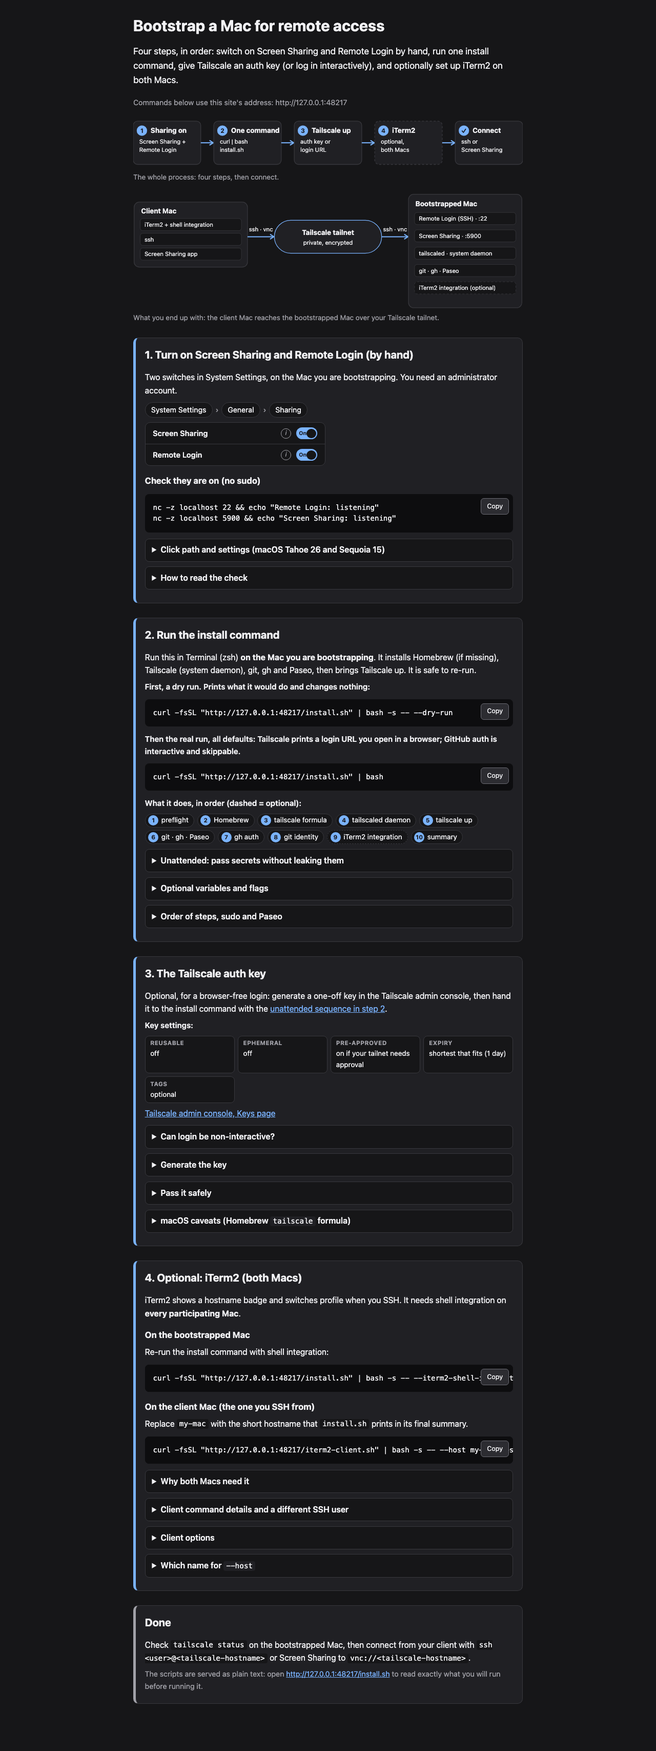
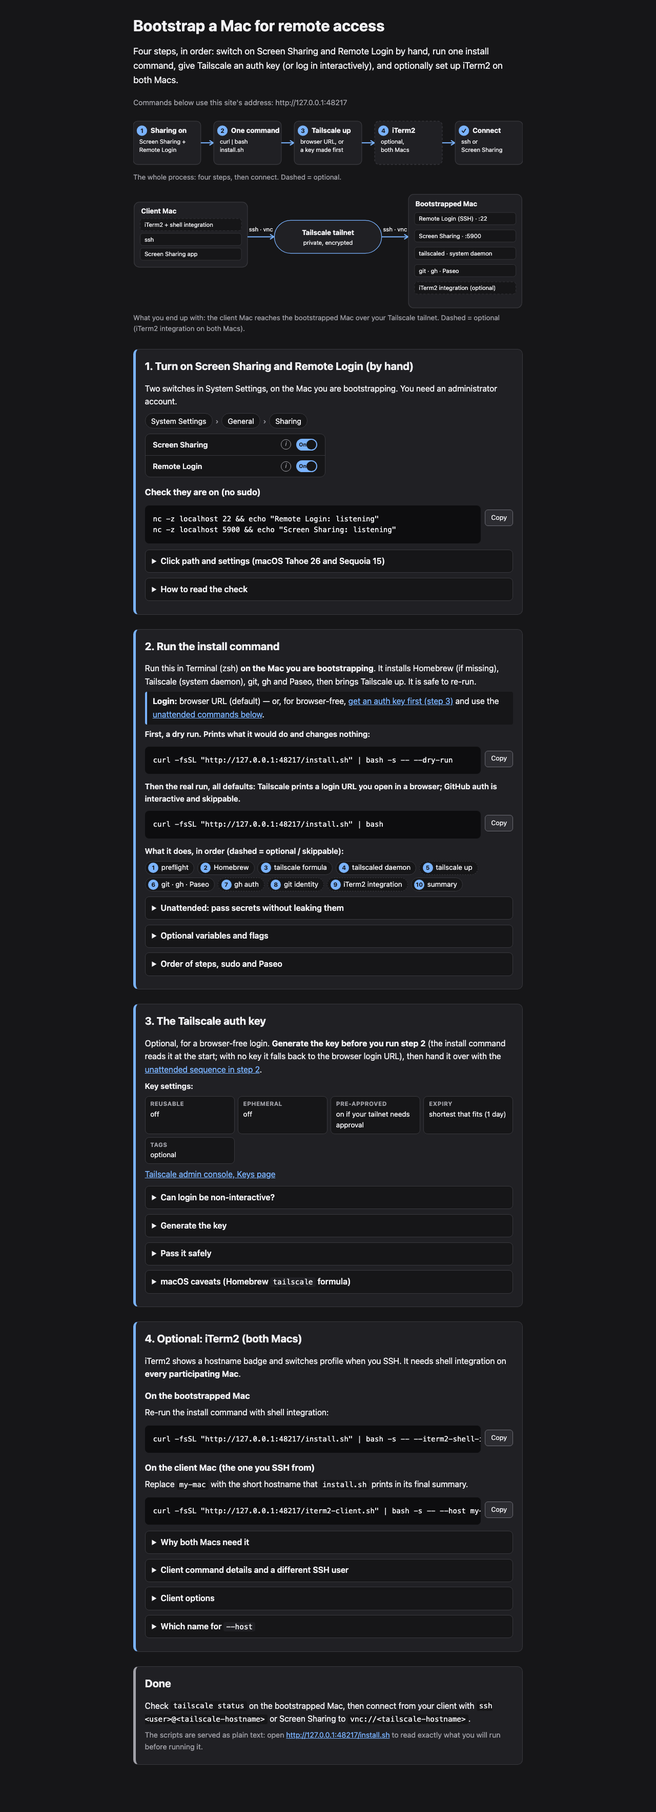
fix(site): login fork before commands, non-overlapping Copy buttons, consistent optional marking, named buttons

Changed region(s): [[0.1875, 0.0, 0.7812, 0.9628], [0.5625, 0.0621, 0.625, 0.0932], [0.75, 0.2795, 0.7812, 0.3106]]

diff --git a/public/index.html b/public/index.html
@@ -20,10 +20,10 @@ p,li{max-width:46rem}
 a{color:var(--accent)}
 a:focus-visible,button:focus-visible,summary:focus-visible{outline:3px solid var(--accent);outline-offset:2px}
 code{font:.9em ui-monospace,SFMono-Regular,Menlo,monospace;background:var(--card);padding:.1em .35em;border-radius:4px}
-.cmd{position:relative;margin:.75rem 0}
-.cmd pre{margin:0;background:var(--code-bg);color:var(--code-fg);padding:1rem 5.5rem 1rem 1rem;border-radius:8px;overflow-x:auto;font:.88rem/1.5 ui-monospace,SFMono-Regular,Menlo,monospace;white-space:pre}
+.cmd{display:flex;gap:.5rem;align-items:flex-start;margin:.75rem 0}
+.cmd pre{flex:1 1 auto;min-width:0;margin:0;background:var(--code-bg);color:var(--code-fg);padding:1rem;border-radius:8px;overflow-x:auto;font:.88rem/1.5 ui-monospace,SFMono-Regular,Menlo,monospace;white-space:pre}
 .cmd pre code{background:none;padding:0;font:inherit}
-.cmd button{position:absolute;top:.5rem;right:.5rem;font:inherit;font-size:.8rem;padding:.3rem .7rem;border-radius:6px;border:1px solid #6b6b73;background:#2c2c31;color:#f2f2f5;cursor:pointer}
+.cmd button{flex:none;margin-top:.5rem;font:inherit;font-size:.8rem;padding:.3rem .7rem;border-radius:6px;border:1px solid #6b6b73;background:#2c2c31;color:#f2f2f5;cursor:pointer}
 .cmd button:hover{background:#3a3a41}
 .note{background:var(--warn-bg);color:var(--warn);border-left:4px solid var(--warn);padding:.6rem .9rem;border-radius:4px;margin:1rem 0}
 .card{background:var(--card);border:1px solid var(--line);border-radius:8px;padding:.25rem 1rem;margin:1rem 0}
@@ -83,9 +83,10 @@ figcaption{font-size:.85rem;color:var(--muted);margin-top:.25rem}
 .keyset li{background:var(--bg);border:1px solid var(--line);border-radius:8px;padding:.3rem .6rem;font-size:.85rem;max-width:none}
 .keyset b{display:block;font-size:.72rem;text-transform:uppercase;letter-spacing:.04em;color:var(--muted)}
 td code,th code{overflow-wrap:anywhere}
+.fork{border-left:4px solid var(--accent);background:var(--bg);padding:.4rem .7rem;border-radius:4px}
 .lbl{margin:.9rem 0 0;font-weight:600;font-size:.95rem}
 .done{border-left-color:var(--muted)}
-@media (max-width:640px){.dg-wide{display:none}.dg-narrow{display:block}main{padding:1.25rem .9rem 3rem}h1{font-size:1.6rem}.step{padding:0 .8rem .8rem}.cmd pre{padding-right:4.8rem}}
+@media (max-width:640px){.dg-wide{display:none}.dg-narrow{display:block}main{padding:1.25rem .9rem 3rem}h1{font-size:1.6rem}.step{padding:0 .8rem .8rem}}
 </style>
 </head>
 <body>
@@ -96,12 +97,12 @@ td code,th code{overflow-wrap:anywhere}
 <p id="origin-note" class="origin">Commands below are built from this page's address.</p>
 <noscript><p class="note">JavaScript is off, so commands show the literal placeholder <code>&lt;your-site&gt;</code>. Replace it with the address of this page.</p></noscript>
 <figure>
-<svg class="dg dg-wide" viewBox="0 0 900 118" role="img" aria-label="Process: 1 turn on Screen Sharing and Remote Login by hand, 2 run one install command, 3 Tailscale comes up with an auth key or a login URL, 4 optionally set up iTerm2 on both Macs, then connect with ssh or Screen Sharing."><title>Process flow</title><rect x="0" y="6" width="156" height="100" rx="10" class="bx"/><circle cx="20" cy="28" r="12" class="bd"/><text x="20" y="33" class="bn" text-anchor="middle">1</text><text x="40" y="33" class="tt" text-anchor="start">Sharing on</text><text x="14" y="58" class="st" text-anchor="start">Screen Sharing +</text><text x="14" y="77" class="st" text-anchor="start">Remote Login</text><path d="M156 56H184" class="ar"/><path d="M177 51L185 56L177 61" class="ah"/><rect x="186" y="6" width="156" height="100" rx="10" class="bx"/><circle cx="206" cy="28" r="12" class="bd"/><text x="206" y="33" class="bn" text-anchor="middle">2</text><text x="226" y="33" class="tt" text-anchor="start">One command</text><text x="200" y="58" class="st" text-anchor="start">curl | bash</text><text x="200" y="77" class="st" text-anchor="start">install.sh</text><path d="M342 56H370" class="ar"/><path d="M363 51L371 56L363 61" class="ah"/><rect x="372" y="6" width="156" height="100" rx="10" class="bx"/><circle cx="392" cy="28" r="12" class="bd"/><text x="392" y="33" class="bn" text-anchor="middle">3</text><text x="412" y="33" class="tt" text-anchor="start">Tailscale up</text><text x="386" y="58" class="st" text-anchor="start">auth key or</text><text x="386" y="77" class="st" text-anchor="start">login URL</text><path d="M528 56H556" class="ar"/><path d="M549 51L557 56L549 61" class="ah"/><rect x="558" y="6" width="156" height="100" rx="10" class="bx opt"/><circle cx="578" cy="28" r="12" class="bd"/><text x="578" y="33" class="bn" text-anchor="middle">4</text><text x="598" y="33" class="tt" text-anchor="start">iTerm2</text><text x="572" y="58" class="st" text-anchor="start">optional,</text><text x="572" y="77" class="st" text-anchor="start">both Macs</text><path d="M714 56H742" class="ar"/><path d="M735 51L743 56L735 61" class="ah"/><rect x="744" y="6" width="156" height="100" rx="10" class="bx"/><circle cx="764" cy="28" r="12" class="bd"/><text x="764" y="33" class="bn" text-anchor="middle">✓</text><text x="784" y="33" class="tt" text-anchor="start">Connect</text><text x="758" y="58" class="st" text-anchor="start">ssh or</text><text x="758" y="77" class="st" text-anchor="start">Screen Sharing</text></svg><svg class="dg dg-narrow" viewBox="0 0 360 436" role="img" aria-label="Process: 1 turn on Screen Sharing and Remote Login by hand, 2 run one install command, 3 Tailscale comes up with an auth key or a login URL, 4 optionally set up iTerm2 on both Macs, then connect with ssh or Screen Sharing."><title>Process flow</title><rect x="4" y="4" width="352" height="64" rx="10" class="bx"/><circle cx="30" cy="36" r="13" class="bd"/><text x="30" y="41" class="bn" text-anchor="middle">1</text><text x="54" y="32" class="tt" text-anchor="start">Sharing on</text><text x="54" y="53" class="st" text-anchor="start">Screen Sharing + Remote Login</text><path d="M180 68V92" class="ar"/><path d="M175 85L180 93L185 85" class="ah"/><rect x="4" y="94" width="352" height="64" rx="10" class="bx"/><circle cx="30" cy="126" r="13" class="bd"/><text x="30" y="131" class="bn" text-anchor="middle">2</text><text x="54" y="122" class="tt" text-anchor="start">One command</text><text x="54" y="143" class="st" text-anchor="start">curl | bash install.sh</text><path d="M180 158V182" class="ar"/><path d="M175 175L180 183L185 175" class="ah"/><rect x="4" y="184" width="352" height="64" rx="10" class="bx"/><circle cx="30" cy="216" r="13" class="bd"/><text x="30" y="221" class="bn" text-anchor="middle">3</text><text x="54" y="212" class="tt" text-anchor="start">Tailscale up</text><text x="54" y="233" class="st" text-anchor="start">auth key or login URL</text><path d="M180 248V272" class="ar"/><path d="M175 265L180 273L185 265" class="ah"/><rect x="4" y="274" width="352" height="64" rx="10" class="bx opt"/><circle cx="30" cy="306" r="13" class="bd"/><text x="30" y="311" class="bn" text-anchor="middle">4</text><text x="54" y="302" class="tt" text-anchor="start">iTerm2</text><text x="54" y="323" class="st" text-anchor="start">optional, both Macs</text><path d="M180 338V362" class="ar"/><path d="M175 355L180 363L185 355" class="ah"/><rect x="4" y="364" width="352" height="64" rx="10" class="bx"/><circle cx="30" cy="396" r="13" class="bd"/><text x="30" y="401" class="bn" text-anchor="middle">✓</text><text x="54" y="392" class="tt" text-anchor="start">Connect</text><text x="54" y="413" class="st" text-anchor="start">ssh or Screen Sharing</text></svg>
-<figcaption>The whole process: four steps, then connect.</figcaption>
+<svg class="dg dg-wide" viewBox="0 0 900 118" role="img" aria-label="Process: 1 turn on Screen Sharing and Remote Login by hand, 2 run one install command, 3 Tailscale comes up with a browser login URL, or with an auth key generated beforehand, 4 optionally set up iTerm2 on both Macs, then connect with ssh or Screen Sharing."><title>Process flow</title><rect x="0" y="6" width="156" height="100" rx="10" class="bx"/><circle cx="20" cy="28" r="12" class="bd"/><text x="20" y="33" class="bn" text-anchor="middle">1</text><text x="40" y="33" class="tt" text-anchor="start">Sharing on</text><text x="14" y="58" class="st" text-anchor="start">Screen Sharing +</text><text x="14" y="77" class="st" text-anchor="start">Remote Login</text><path d="M156 56H184" class="ar"/><path d="M177 51L185 56L177 61" class="ah"/><rect x="186" y="6" width="156" height="100" rx="10" class="bx"/><circle cx="206" cy="28" r="12" class="bd"/><text x="206" y="33" class="bn" text-anchor="middle">2</text><text x="226" y="33" class="tt" text-anchor="start">One command</text><text x="200" y="58" class="st" text-anchor="start">curl | bash</text><text x="200" y="77" class="st" text-anchor="start">install.sh</text><path d="M342 56H370" class="ar"/><path d="M363 51L371 56L363 61" class="ah"/><rect x="372" y="6" width="156" height="100" rx="10" class="bx"/><circle cx="392" cy="28" r="12" class="bd"/><text x="392" y="33" class="bn" text-anchor="middle">3</text><text x="412" y="33" class="tt" text-anchor="start">Tailscale up</text><text x="386" y="58" class="st" text-anchor="start">browser URL, or</text><text x="386" y="77" class="st" text-anchor="start">a key made first</text><path d="M528 56H556" class="ar"/><path d="M549 51L557 56L549 61" class="ah"/><rect x="558" y="6" width="156" height="100" rx="10" class="bx opt"/><circle cx="578" cy="28" r="12" class="bd"/><text x="578" y="33" class="bn" text-anchor="middle">4</text><text x="598" y="33" class="tt" text-anchor="start">iTerm2</text><text x="572" y="58" class="st" text-anchor="start">optional,</text><text x="572" y="77" class="st" text-anchor="start">both Macs</text><path d="M714 56H742" class="ar"/><path d="M735 51L743 56L735 61" class="ah"/><rect x="744" y="6" width="156" height="100" rx="10" class="bx"/><circle cx="764" cy="28" r="12" class="bd"/><text x="764" y="33" class="bn" text-anchor="middle">✓</text><text x="784" y="33" class="tt" text-anchor="start">Connect</text><text x="758" y="58" class="st" text-anchor="start">ssh or</text><text x="758" y="77" class="st" text-anchor="start">Screen Sharing</text></svg><svg class="dg dg-narrow" viewBox="0 0 360 436" role="img" aria-label="Process: 1 turn on Screen Sharing and Remote Login by hand, 2 run one install command, 3 Tailscale comes up with a browser login URL, or with an auth key generated beforehand, 4 optionally set up iTerm2 on both Macs, then connect with ssh or Screen Sharing."><title>Process flow</title><rect x="4" y="4" width="352" height="64" rx="10" class="bx"/><circle cx="30" cy="36" r="13" class="bd"/><text x="30" y="41" class="bn" text-anchor="middle">1</text><text x="54" y="32" class="tt" text-anchor="start">Sharing on</text><text x="54" y="53" class="st" text-anchor="start">Screen Sharing + Remote Login</text><path d="M180 68V92" class="ar"/><path d="M175 85L180 93L185 85" class="ah"/><rect x="4" y="94" width="352" height="64" rx="10" class="bx"/><circle cx="30" cy="126" r="13" class="bd"/><text x="30" y="131" class="bn" text-anchor="middle">2</text><text x="54" y="122" class="tt" text-anchor="start">One command</text><text x="54" y="143" class="st" text-anchor="start">curl | bash install.sh</text><path d="M180 158V182" class="ar"/><path d="M175 175L180 183L185 175" class="ah"/><rect x="4" y="184" width="352" height="64" rx="10" class="bx"/><circle cx="30" cy="216" r="13" class="bd"/><text x="30" y="221" class="bn" text-anchor="middle">3</text><text x="54" y="212" class="tt" text-anchor="start">Tailscale up</text><text x="54" y="233" class="st" text-anchor="start">browser URL, or a key made first</text><path d="M180 248V272" class="ar"/><path d="M175 265L180 273L185 265" class="ah"/><rect x="4" y="274" width="352" height="64" rx="10" class="bx opt"/><circle cx="30" cy="306" r="13" class="bd"/><text x="30" y="311" class="bn" text-anchor="middle">4</text><text x="54" y="302" class="tt" text-anchor="start">iTerm2</text><text x="54" y="323" class="st" text-anchor="start">optional, both Macs</text><path d="M180 338V362" class="ar"/><path d="M175 355L180 363L185 355" class="ah"/><rect x="4" y="364" width="352" height="64" rx="10" class="bx"/><circle cx="30" cy="396" r="13" class="bd"/><text x="30" y="401" class="bn" text-anchor="middle">✓</text><text x="54" y="392" class="tt" text-anchor="start">Connect</text><text x="54" y="413" class="st" text-anchor="start">ssh or Screen Sharing</text></svg>
+<figcaption>The whole process: four steps, then connect. Dashed = optional.</figcaption>
 </figure>
 <figure>
-<svg class="dg dg-wide" viewBox="0 0 900 270" role="img" aria-label="Architecture: the client Mac runs iTerm2 with shell integration, ssh and the Screen Sharing app. It reaches the bootstrapped Mac over a private Tailscale tailnet. The bootstrapped Mac runs Remote Login (SSH, port 22), Screen Sharing (port 5900), the tailscaled system daemon installed with Homebrew, git, gh and Paseo, and optionally iTerm2 shell integration."><title>Architecture</title><rect x="2" y="20" width="262" height="150" rx="12" class="bx"/><text x="18" y="46" class="tt" text-anchor="start">Client Mac</text><rect x="16" y="58" width="234" height="28" rx="6" class="it"/><text x="26" y="77" class="st" text-anchor="start">iTerm2 + shell integration</text><rect x="16" y="92" width="234" height="28" rx="6" class="it"/><text x="26" y="111" class="st" text-anchor="start">ssh</text><rect x="16" y="126" width="234" height="28" rx="6" class="it"/><text x="26" y="145" class="st" text-anchor="start">Screen Sharing app</text><rect x="326" y="62" width="248" height="76" rx="38" class="bx net"/><text x="450" y="96" class="tt" text-anchor="middle">Tailscale tailnet</text><text x="450" y="118" class="st" text-anchor="middle">private, encrypted</text><path d="M264 100H324" class="ar"/><path d="M317 95L325 100L317 105" class="ah"/><path d="M574 100H634" class="ar"/><path d="M627 95L635 100L627 105" class="ah"/><rect x="636" y="2" width="262" height="262" rx="12" class="bx"/><text x="652" y="30" class="tt" text-anchor="start">Bootstrapped Mac</text><rect x="650" y="44" width="234" height="28" rx="6" class="it"/><text x="660" y="63" class="st" text-anchor="start">Remote Login (SSH) · :22</text><rect x="650" y="84" width="234" height="28" rx="6" class="it"/><text x="660" y="103" class="st" text-anchor="start">Screen Sharing · :5900</text><rect x="650" y="124" width="234" height="28" rx="6" class="it"/><text x="660" y="143" class="st" text-anchor="start">tailscaled · system daemon</text><rect x="650" y="164" width="234" height="28" rx="6" class="it"/><text x="660" y="183" class="st" text-anchor="start">git · gh · Paseo</text><rect x="650" y="204" width="234" height="28" rx="6" class="it opt"/><text x="660" y="223" class="st" text-anchor="start">iTerm2 integration (optional)</text><text x="295" y="88" class="st" text-anchor="middle">ssh · vnc</text><text x="605" y="88" class="st" text-anchor="middle">ssh · vnc</text></svg><svg class="dg dg-narrow" viewBox="0 0 360 500" role="img" aria-label="Architecture: the client Mac runs iTerm2 with shell integration, ssh and the Screen Sharing app. It reaches the bootstrapped Mac over a private Tailscale tailnet. The bootstrapped Mac runs Remote Login (SSH, port 22), Screen Sharing (port 5900), the tailscaled system daemon installed with Homebrew, git, gh and Paseo, and optionally iTerm2 shell integration."><title>Architecture</title><rect x="4" y="2" width="352" height="136" rx="12" class="bx"/><text x="18" y="28" class="tt" text-anchor="start">Client Mac</text><rect x="16" y="40" width="328" height="28" rx="6" class="it"/><text x="26" y="59" class="st" text-anchor="start">iTerm2 + shell integration</text><rect x="16" y="72" width="328" height="28" rx="6" class="it"/><text x="26" y="91" class="st" text-anchor="start">ssh</text><rect x="16" y="104" width="328" height="28" rx="6" class="it"/><text x="26" y="123" class="st" text-anchor="start">Screen Sharing app</text><path d="M180 138V174" class="ar"/><path d="M175 167L180 175L185 167" class="ah"/><text x="194" y="162" class="st" text-anchor="start">ssh · vnc</text><rect x="60" y="176" width="240" height="60" rx="30" class="bx net"/><text x="180" y="203" class="tt" text-anchor="middle">Tailscale tailnet</text><text x="180" y="223" class="st" text-anchor="middle">private, encrypted</text><path d="M180 236V272" class="ar"/><path d="M175 265L180 273L185 265" class="ah"/><rect x="4" y="274" width="352" height="224" rx="12" class="bx"/><text x="18" y="300" class="tt" text-anchor="start">Bootstrapped Mac</text><rect x="16" y="312" width="328" height="28" rx="6" class="it"/><text x="26" y="331" class="st" text-anchor="start">Remote Login (SSH) · :22</text><rect x="16" y="348" width="328" height="28" rx="6" class="it"/><text x="26" y="367" class="st" text-anchor="start">Screen Sharing · :5900</text><rect x="16" y="384" width="328" height="28" rx="6" class="it"/><text x="26" y="403" class="st" text-anchor="start">tailscaled · system daemon</text><rect x="16" y="420" width="328" height="28" rx="6" class="it"/><text x="26" y="439" class="st" text-anchor="start">git · gh · Paseo</text><rect x="16" y="456" width="328" height="28" rx="6" class="it opt"/><text x="26" y="475" class="st" text-anchor="start">iTerm2 integration (optional)</text></svg>
-<figcaption>What you end up with: the client Mac reaches the bootstrapped Mac over your Tailscale tailnet.</figcaption>
+<svg class="dg dg-wide" viewBox="0 0 900 270" role="img" aria-label="Architecture: the client Mac runs iTerm2 with shell integration, ssh and the Screen Sharing app. It reaches the bootstrapped Mac over a private Tailscale tailnet. The bootstrapped Mac runs Remote Login (SSH, port 22), Screen Sharing (port 5900), the tailscaled system daemon installed with Homebrew, git, gh and Paseo, and optionally iTerm2 shell integration; the iTerm2 integration on both Macs is optional."><title>Architecture</title><rect x="2" y="20" width="262" height="150" rx="12" class="bx"/><text x="18" y="46" class="tt" text-anchor="start">Client Mac</text><rect x="16" y="58" width="234" height="28" rx="6" class="it opt"/><text x="26" y="77" class="st" text-anchor="start">iTerm2 + shell integration</text><rect x="16" y="92" width="234" height="28" rx="6" class="it"/><text x="26" y="111" class="st" text-anchor="start">ssh</text><rect x="16" y="126" width="234" height="28" rx="6" class="it"/><text x="26" y="145" class="st" text-anchor="start">Screen Sharing app</text><rect x="326" y="62" width="248" height="76" rx="38" class="bx net"/><text x="450" y="96" class="tt" text-anchor="middle">Tailscale tailnet</text><text x="450" y="118" class="st" text-anchor="middle">private, encrypted</text><path d="M264 100H324" class="ar"/><path d="M317 95L325 100L317 105" class="ah"/><path d="M574 100H634" class="ar"/><path d="M627 95L635 100L627 105" class="ah"/><rect x="636" y="2" width="262" height="262" rx="12" class="bx"/><text x="652" y="30" class="tt" text-anchor="start">Bootstrapped Mac</text><rect x="650" y="44" width="234" height="28" rx="6" class="it"/><text x="660" y="63" class="st" text-anchor="start">Remote Login (SSH) · :22</text><rect x="650" y="84" width="234" height="28" rx="6" class="it"/><text x="660" y="103" class="st" text-anchor="start">Screen Sharing · :5900</text><rect x="650" y="124" width="234" height="28" rx="6" class="it"/><text x="660" y="143" class="st" text-anchor="start">tailscaled · system daemon</text><rect x="650" y="164" width="234" height="28" rx="6" class="it"/><text x="660" y="183" class="st" text-anchor="start">git · gh · Paseo</text><rect x="650" y="204" width="234" height="28" rx="6" class="it opt"/><text x="660" y="223" class="st" text-anchor="start">iTerm2 integration (optional)</text><text x="295" y="88" class="st" text-anchor="middle">ssh · vnc</text><text x="605" y="88" class="st" text-anchor="middle">ssh · vnc</text></svg><svg class="dg dg-narrow" viewBox="0 0 360 500" role="img" aria-label="Architecture: the client Mac runs iTerm2 with shell integration, ssh and the Screen Sharing app. It reaches the bootstrapped Mac over a private Tailscale tailnet. The bootstrapped Mac runs Remote Login (SSH, port 22), Screen Sharing (port 5900), the tailscaled system daemon installed with Homebrew, git, gh and Paseo, and optionally iTerm2 shell integration; the iTerm2 integration on both Macs is optional."><title>Architecture</title><rect x="4" y="2" width="352" height="136" rx="12" class="bx"/><text x="18" y="28" class="tt" text-anchor="start">Client Mac</text><rect x="16" y="40" width="328" height="28" rx="6" class="it opt"/><text x="26" y="59" class="st" text-anchor="start">iTerm2 + shell integration</text><rect x="16" y="72" width="328" height="28" rx="6" class="it"/><text x="26" y="91" class="st" text-anchor="start">ssh</text><rect x="16" y="104" width="328" height="28" rx="6" class="it"/><text x="26" y="123" class="st" text-anchor="start">Screen Sharing app</text><path d="M180 138V174" class="ar"/><path d="M175 167L180 175L185 167" class="ah"/><text x="194" y="162" class="st" text-anchor="start">ssh · vnc</text><rect x="60" y="176" width="240" height="60" rx="30" class="bx net"/><text x="180" y="203" class="tt" text-anchor="middle">Tailscale tailnet</text><text x="180" y="223" class="st" text-anchor="middle">private, encrypted</text><path d="M180 236V272" class="ar"/><path d="M175 265L180 273L185 265" class="ah"/><rect x="4" y="274" width="352" height="224" rx="12" class="bx"/><text x="18" y="300" class="tt" text-anchor="start">Bootstrapped Mac</text><rect x="16" y="312" width="328" height="28" rx="6" class="it"/><text x="26" y="331" class="st" text-anchor="start">Remote Login (SSH) · :22</text><rect x="16" y="348" width="328" height="28" rx="6" class="it"/><text x="26" y="367" class="st" text-anchor="start">Screen Sharing · :5900</text><rect x="16" y="384" width="328" height="28" rx="6" class="it"/><text x="26" y="403" class="st" text-anchor="start">tailscaled · system daemon</text><rect x="16" y="420" width="328" height="28" rx="6" class="it"/><text x="26" y="439" class="st" text-anchor="start">git · gh · Paseo</text><rect x="16" y="456" width="328" height="28" rx="6" class="it opt"/><text x="26" y="475" class="st" text-anchor="start">iTerm2 integration (optional)</text></svg>
+<figcaption>What you end up with: the client Mac reaches the bootstrapped Mac over your Tailscale tailnet. Dashed = optional (iTerm2 integration on both Macs).</figcaption>
 </figure>
 </header>
 
@@ -115,7 +116,7 @@ td code,th code{overflow-wrap:anywhere}
 </div>
 <h3>Check they are on (no sudo)</h3>
 <div class="cmd"><pre><code id="c-nc">nc -z localhost 22 &amp;&amp; echo "Remote Login: listening"
-nc -z localhost 5900 &amp;&amp; echo "Screen Sharing: listening"</code></pre><button type="button" data-copy="c-nc">Copy</button></div>
+nc -z localhost 5900 &amp;&amp; echo "Screen Sharing: listening"</code></pre><button type="button" data-copy="c-nc" aria-label="Copy port check command">Copy</button></div>
 <details>
 <summary>Click path and settings (macOS Tahoe 26 and Sequoia 15)</summary>
 <p>This project deliberately uses Apple's supported System Settings path for these two switches rather than scripting them. Steps apply to macOS Tahoe 26 and Sequoia 15 (Apple documents the same <em>General &rsaquo; Sharing</em> location for both). You need an administrator account.</p>
@@ -145,13 +146,14 @@ nc -z localhost 5900 &amp;&amp; echo "Screen Sharing: listening"</code></pre><bu
 <section class="step" aria-labelledby="install">
 <h2 id="install">2. Run the install command</h2>
 <p>Run this in Terminal (zsh) <strong>on the Mac you are bootstrapping</strong>. It installs Homebrew (if missing), Tailscale (system daemon), git, gh and Paseo, then brings Tailscale up. It is safe to re-run.</p>
+<p class="fork"><strong>Login:</strong> browser URL (default) — or, for browser-free, <a href="#authkey">get an auth key first (step 3)</a> and use the <a href="#secrets" data-open="secrets">unattended commands below</a>.</p>
 <p class="lbl">First, a dry run. Prints what it would do and changes nothing:</p>
-<div class="cmd"><pre><code id="c-dry"></code></pre><button type="button" data-copy="c-dry">Copy</button></div>
+<div class="cmd"><pre><code id="c-dry"></code></pre><button type="button" data-copy="c-dry" aria-label="Copy dry-run command">Copy</button></div>
 <p class="lbl">Then the real run, all defaults: Tailscale prints a login URL you open in a browser; GitHub auth is interactive and skippable.</p>
-<div class="cmd"><pre><code id="c-run"></code></pre><button type="button" data-copy="c-run">Copy</button></div>
-<p class="lbl">What it does, in order (dashed = optional):</p>
+<div class="cmd"><pre><code id="c-run"></code></pre><button type="button" data-copy="c-run" aria-label="Copy install command">Copy</button></div>
+<p class="lbl">What it does, in order (dashed = optional / skippable):</p>
 <ol class="chips">
-<li>preflight</li><li>Homebrew</li><li>tailscale formula</li><li>tailscaled daemon</li><li>tailscale up</li><li>git · gh · Paseo</li><li>gh auth</li><li>git identity</li><li class="opt">iTerm2 integration</li><li>summary</li>
+<li>preflight</li><li>Homebrew</li><li>tailscale formula</li><li>tailscaled daemon</li><li class="opt">tailscale up</li><li>git · gh · Paseo</li><li class="opt">gh auth</li><li class="opt">git identity</li><li class="opt">iTerm2 integration</li><li>summary</li>
 </ol>
 <details id="secrets">
 <summary>Unattended: pass secrets without leaking them</summary>
@@ -159,10 +161,10 @@ nc -z localhost 5900 &amp;&amp; echo "Screen Sharing: listening"</code></pre><bu
 <ol class="pipe" aria-label="Secret path: hidden read into shell variables that are not exported, handed to bash only, then unset">
 <li>hidden <code>read</code></li><li>shell variables, not exported</li><li><code>bash</code> only, never <code>curl</code></li><li><code>unset</code></li>
 </ol>
-<div class="cmd"><pre><code id="c-read1">read -rs "TS_AUTHKEY?Tailscale auth key: "; echo</code></pre><button type="button" data-copy="c-read1">Copy</button></div>
-<div class="cmd"><pre><code id="c-read2">read -rs "GH_TOKEN?GitHub token: "; echo</code></pre><button type="button" data-copy="c-read2">Copy</button></div>
-<div class="cmd"><pre><code id="c-secret"></code></pre><button type="button" data-copy="c-secret">Copy</button></div>
-<div class="cmd"><pre><code id="c-unset">unset TS_AUTHKEY GH_TOKEN</code></pre><button type="button" data-copy="c-unset">Copy</button></div>
+<div class="cmd"><pre><code id="c-read1">read -rs "TS_AUTHKEY?Tailscale auth key: "; echo</code></pre><button type="button" data-copy="c-read1" aria-label="Copy Tailscale key prompt command">Copy</button></div>
+<div class="cmd"><pre><code id="c-read2">read -rs "GH_TOKEN?GitHub token: "; echo</code></pre><button type="button" data-copy="c-read2" aria-label="Copy GitHub token prompt command">Copy</button></div>
+<div class="cmd"><pre><code id="c-secret"></code></pre><button type="button" data-copy="c-secret" aria-label="Copy install command with secrets">Copy</button></div>
+<div class="cmd"><pre><code id="c-unset">unset TS_AUTHKEY GH_TOKEN</code></pre><button type="button" data-copy="c-unset" aria-label="Copy unset command">Copy</button></div>
 <p><strong>Why this shape:</strong> the hidden <code>read</code> keeps the secret out of your shell history (history records the literal <code>$TS_AUTHKEY</code>) and out of any command line (<code>ps</code> shows arguments, not variables); the variables are not exported, so only <code>bash</code> receives them, never <code>curl</code>. The script then removes them from its own environment before running anything else, so no child process (brew, curl, sudo) inherits them. This page never asks for a secret itself.</p>
 </details>
 <details>
@@ -191,7 +193,7 @@ nc -z localhost 5900 &amp;&amp; echo "Screen Sharing: listening"</code></pre><bu
 
 <section class="step" aria-labelledby="authkey">
 <h2 id="authkey">3. The Tailscale auth key</h2>
-<p>Optional, for a browser-free login: generate a one-off key in the Tailscale admin console, then hand it to the install command with the <a href="#secrets" data-open="secrets">unattended sequence in step 2</a>.</p>
+<p>Optional, for a browser-free login. <strong>Generate the key before you run step 2</strong> (the install command reads it at the start; with no key it falls back to the browser login URL), then hand it over with the <a href="#secrets" data-open="secrets">unattended sequence in step 2</a>.</p>
 <p class="lbl">Key settings:</p>
 <ul class="keyset">
 <li><b>Reusable</b>off</li><li><b>Ephemeral</b>off</li><li><b>Pre-approved</b>on if your tailnet needs approval</li><li><b>Expiry</b>shortest that fits (1 day)</li><li><b>Tags</b>optional</li>
@@ -234,10 +236,10 @@ nc -z localhost 5900 &amp;&amp; echo "Screen Sharing: listening"</code></pre><bu
 <p>iTerm2 shows a hostname badge and switches profile when you SSH. It needs shell integration on <strong>every participating Mac</strong>.</p>
 <h3>On the bootstrapped Mac</h3>
 <p>Re-run the install command with shell integration:</p>
-<div class="cmd"><pre><code id="c-iterm-host"></code></pre><button type="button" data-copy="c-iterm-host">Copy</button></div>
+<div class="cmd"><pre><code id="c-iterm-host"></code></pre><button type="button" data-copy="c-iterm-host" aria-label="Copy bootstrapped Mac iTerm2 command">Copy</button></div>
 <h3>On the client Mac (the one you SSH from)</h3>
 <p>Replace <code>my-mac</code> with the short hostname that <code>install.sh</code> prints in its final summary.</p>
-<div class="cmd"><pre><code id="c-iterm-client"></code></pre><button type="button" data-copy="c-iterm-client">Copy</button></div>
+<div class="cmd"><pre><code id="c-iterm-client"></code></pre><button type="button" data-copy="c-iterm-client" aria-label="Copy client Mac iTerm2 command">Copy</button></div>
 <details>
 <summary>Why both Macs need it</summary>
 <p>When you SSH from one Mac to the other, iTerm2 can show a hostname badge and switch profile automatically. This needs iTerm2 shell integration on <strong>every participating Mac</strong>: the remote reports its hostname to iTerm2, and the client needs it too so iTerm2 switches back to the original profile after the SSH session ends.</p>
@@ -246,7 +248,7 @@ nc -z localhost 5900 &amp;&amp; echo "Screen Sharing: listening"</code></pre><bu
 <summary>Client command details and a different SSH user</summary>
 <p>Replace <code>my-mac</code> with the short hostname that <code>install.sh</code> prints in its final summary on the bootstrapped Mac (see below). <code>--shell-integration</code> installs iTerm2 shell integration on the client as well.</p>
 <p>If your SSH user differs from your client user, add <code>--user &lt;ssh-user&gt;</code>:</p>
-<div class="cmd"><pre><code id="c-iterm-client-user"></code></pre><button type="button" data-copy="c-iterm-client-user">Copy</button></div>
+<div class="cmd"><pre><code id="c-iterm-client-user"></code></pre><button type="button" data-copy="c-iterm-client-user" aria-label="Copy client Mac iTerm2 command with SSH user">Copy</button></div>
 </details>
 <details>
 <summary>Client options</summary>
